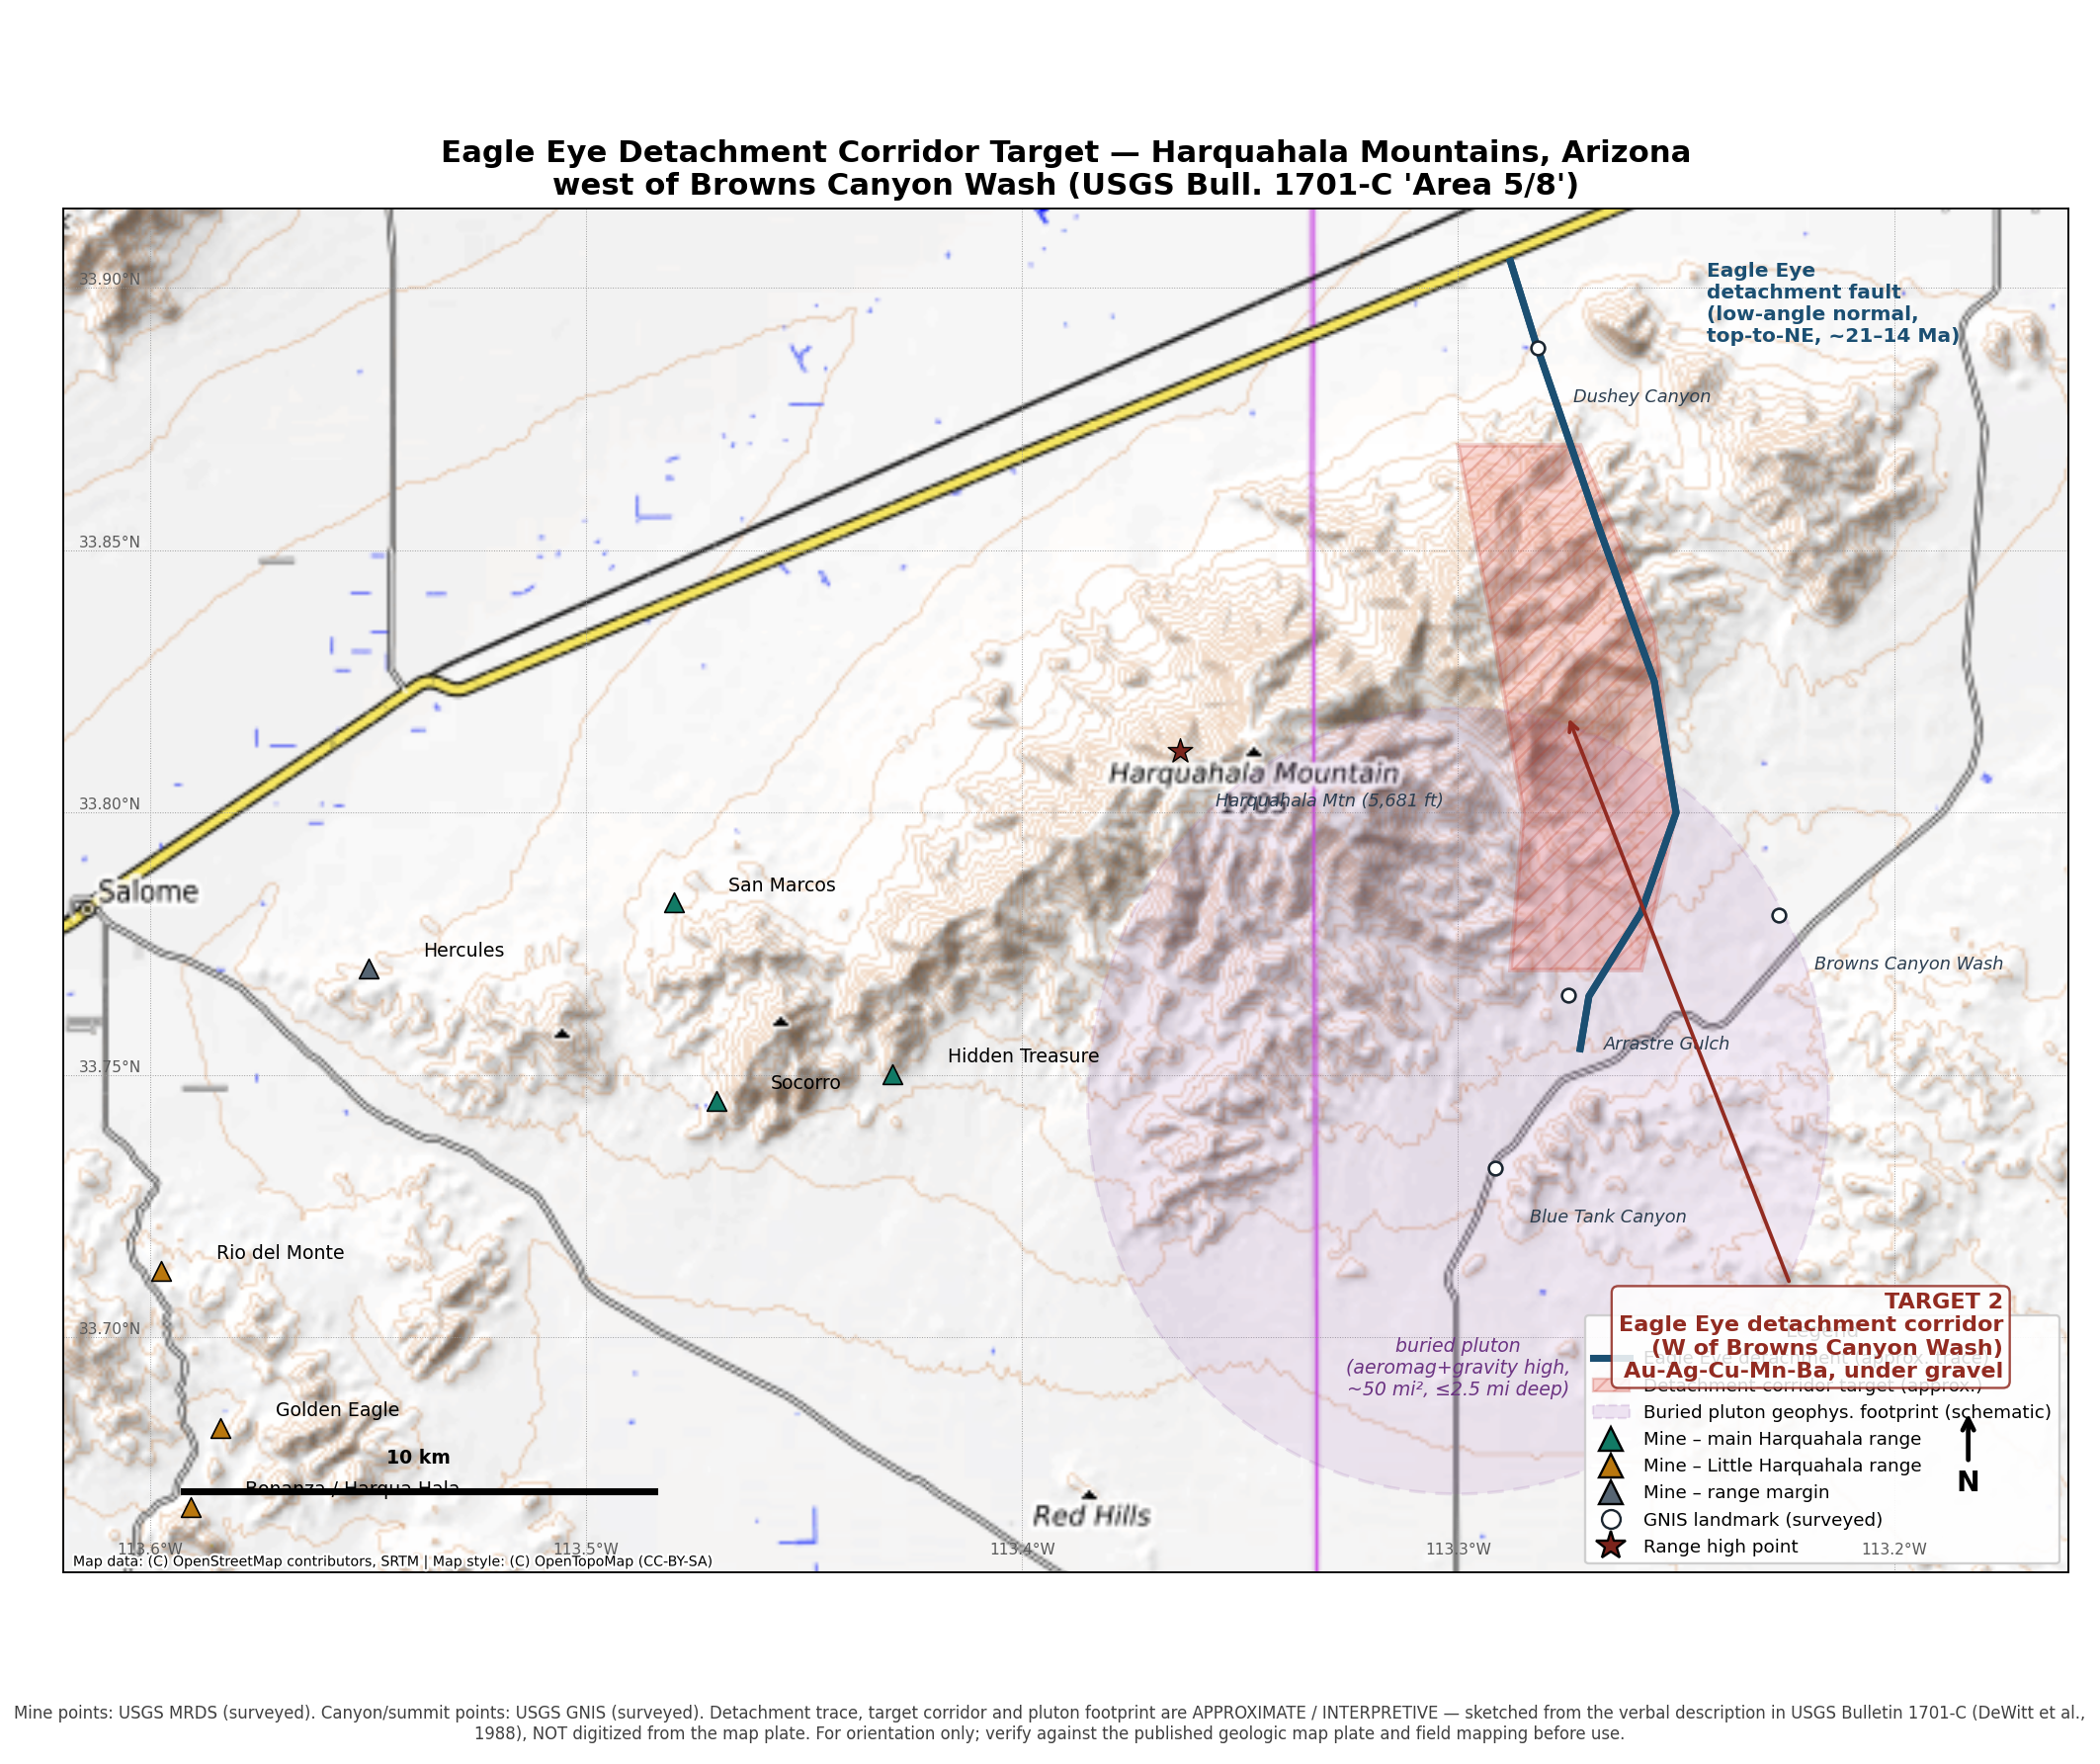
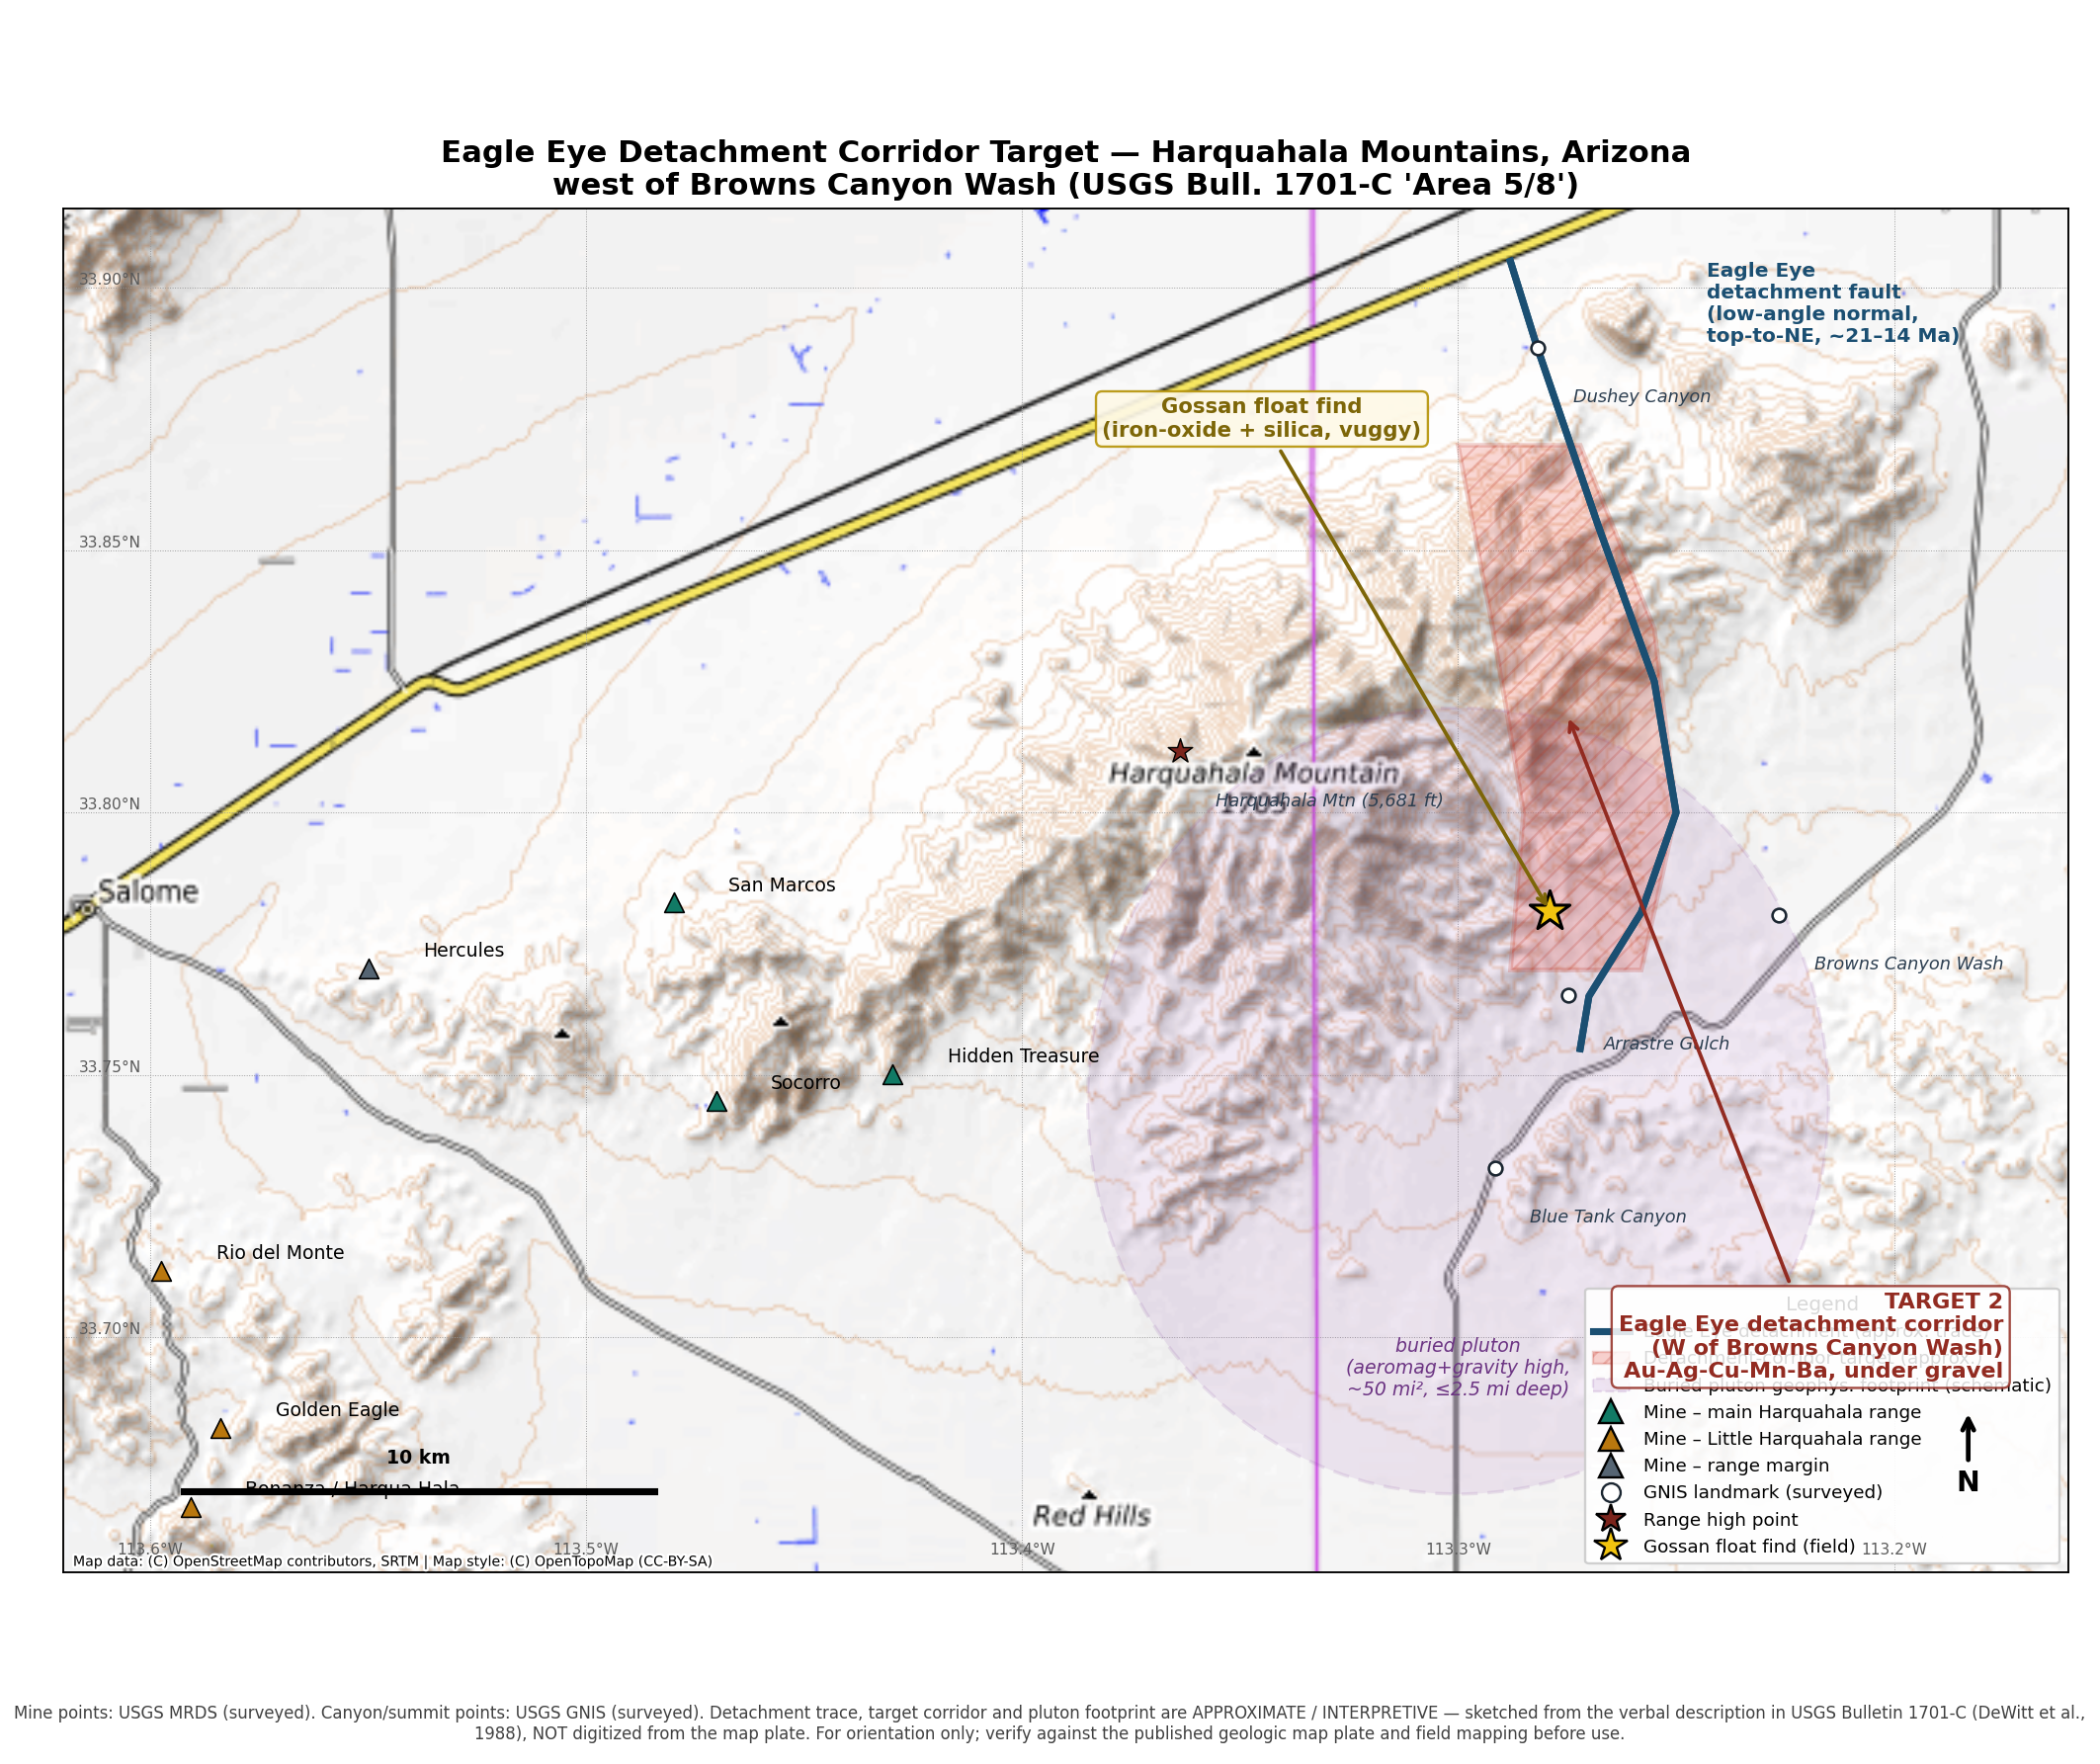
Plot field gossan find on Eagle Eye corridor map
Add user-reported gossan float location (33.78121, -113.27894) to the
map and KML. The point falls inside the detachment-corridor target,
~1.5 km from Arrastre Gulch (highest WSA gold grade).

Changed region(s): [[0.7454, 0.7087, 0.9628, 0.8936], [0.4969, 0.2157, 0.6833, 0.2773], [0.7144, 0.493, 0.7454, 0.5238]]

diff --git a/research/make_eagle_eye_map.py b/research/make_eagle_eye_map.py
@@ -72,6 +72,11 @@ target_corridor = [
     (33.800, -113.285),
 ]
 
+# Field find: gossan-type iron-stained silica rock (user-reported location).
+finds = {
+    "Gossan float find\n(iron-oxide + silica, vuggy)": (33.78121, -113.27894),
+}
+
 # Buried-pluton geophysical footprint (schematic ellipse ~ centered on Blue Tank).
 pluton_center = (33.745, -113.300)
 pluton_rx, pluton_ry = 0.085, 0.075  # deg (schematic, ~ tens of km^2 footprint)
@@ -107,6 +112,16 @@ ax.plot([p[0] for p in tr], [p[1] for p in tr], color="#1b4f72", lw=3.0, zorder=
         label="_nolegend_")
 ax.text(*merc(-113.243, 33.905), "Eagle Eye\ndetachment fault\n(low-angle normal,\ntop-to-NE, ~21–14 Ma)",
         color="#1b4f72", fontsize=8.5, ha="left", va="top", fontweight="bold", zorder=6)
+
+# field find(s)
+for name, (lat, lon) in finds.items():
+    x, y = merc(lon, lat)
+    ax.scatter(x, y, s=320, marker="*", color="#f1c40f", edgecolor="k",
+               linewidth=1.3, zorder=12)
+    ax.annotate(name, xy=(x, y), xytext=merc(-113.345, 33.875),
+                color="#7d6608", fontsize=9, fontweight="bold", ha="center", va="center",
+                bbox=dict(boxstyle="round,pad=0.3", fc="#fef9e7", ec="#b7950b", alpha=0.92),
+                arrowprops=dict(arrowstyle="->", color="#7d6608", lw=1.6), zorder=12)
 
 # mines
 mcolors = {"main": "#117a65", "little": "#b9770e", "margin": "#566573"}
@@ -196,6 +211,8 @@ leg = [
            markeredgecolor="#1b2631", markersize=8, label="GNIS landmark (surveyed)"),
     Line2D([0], [0], marker="*", color="w", markerfacecolor="#7b241c",
            markeredgecolor="k", markersize=13, label="Range high point"),
+    Line2D([0], [0], marker="*", color="w", markerfacecolor="#f1c40f",
+           markeredgecolor="k", markersize=15, label="Gossan float find (field)"),
 ]
 ax.legend(handles=leg, loc="lower right", fontsize=7.8, framealpha=0.92,
           title="Legend", title_fontsize=8.5)
@@ -247,6 +264,10 @@ for name, (lat, lon, _r) in mines.items():
                f'<Point><coordinates>{lon},{lat},0</coordinates></Point></Placemark>')
 for name, (lat, lon, _k) in landmarks.items():
     kml.append(f'<Placemark><name>{name} (GNIS)</name>'
+               f'<Point><coordinates>{lon},{lat},0</coordinates></Point></Placemark>')
+for name, (lat, lon) in finds.items():
+    label = name.replace("\n", " ")
+    kml.append(f'<Placemark><name>FIELD FIND: {label}</name>'
                f'<Point><coordinates>{lon},{lat},0</coordinates></Point></Placemark>')
 kml.append('</Document></kml>')
 with open("research/harquahala_eagle_eye_target.kml", "w") as f: